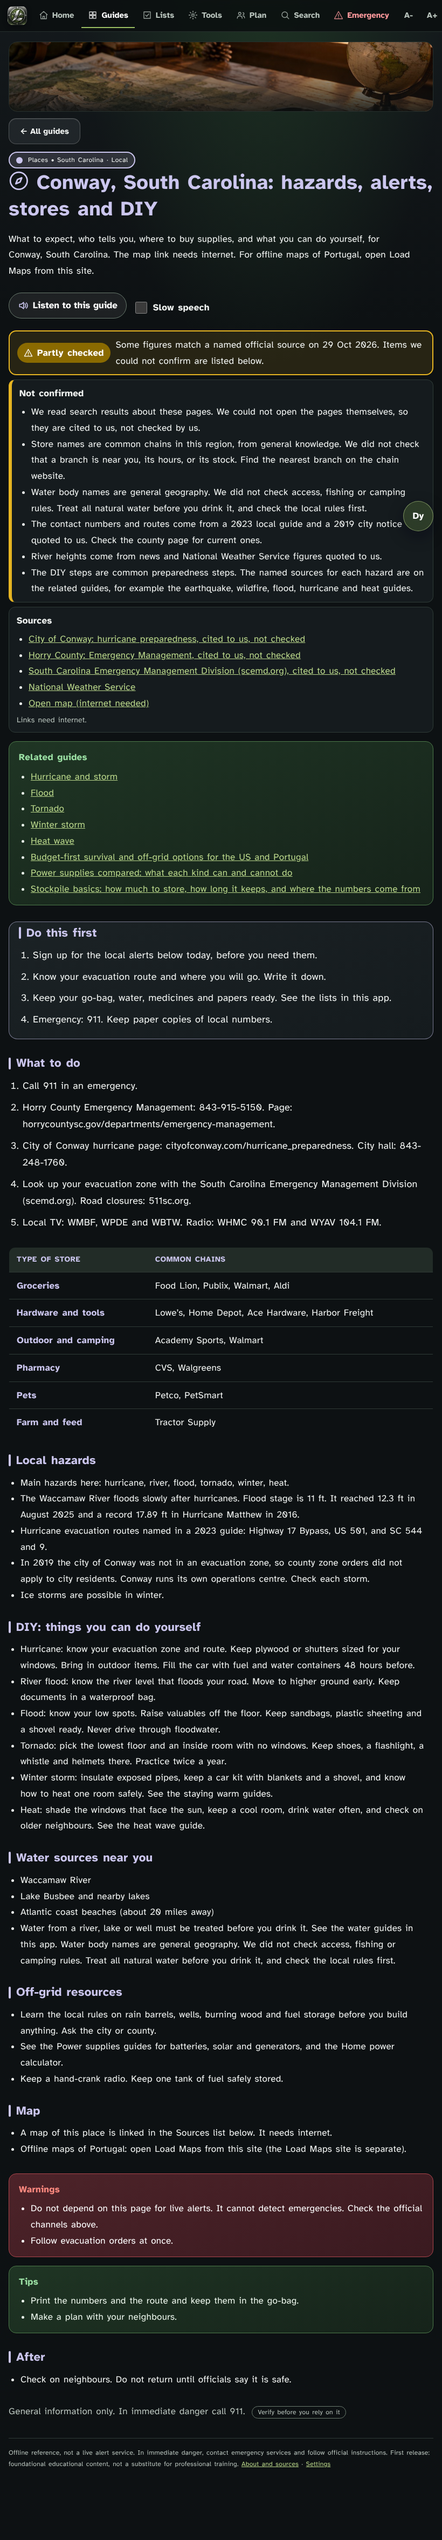
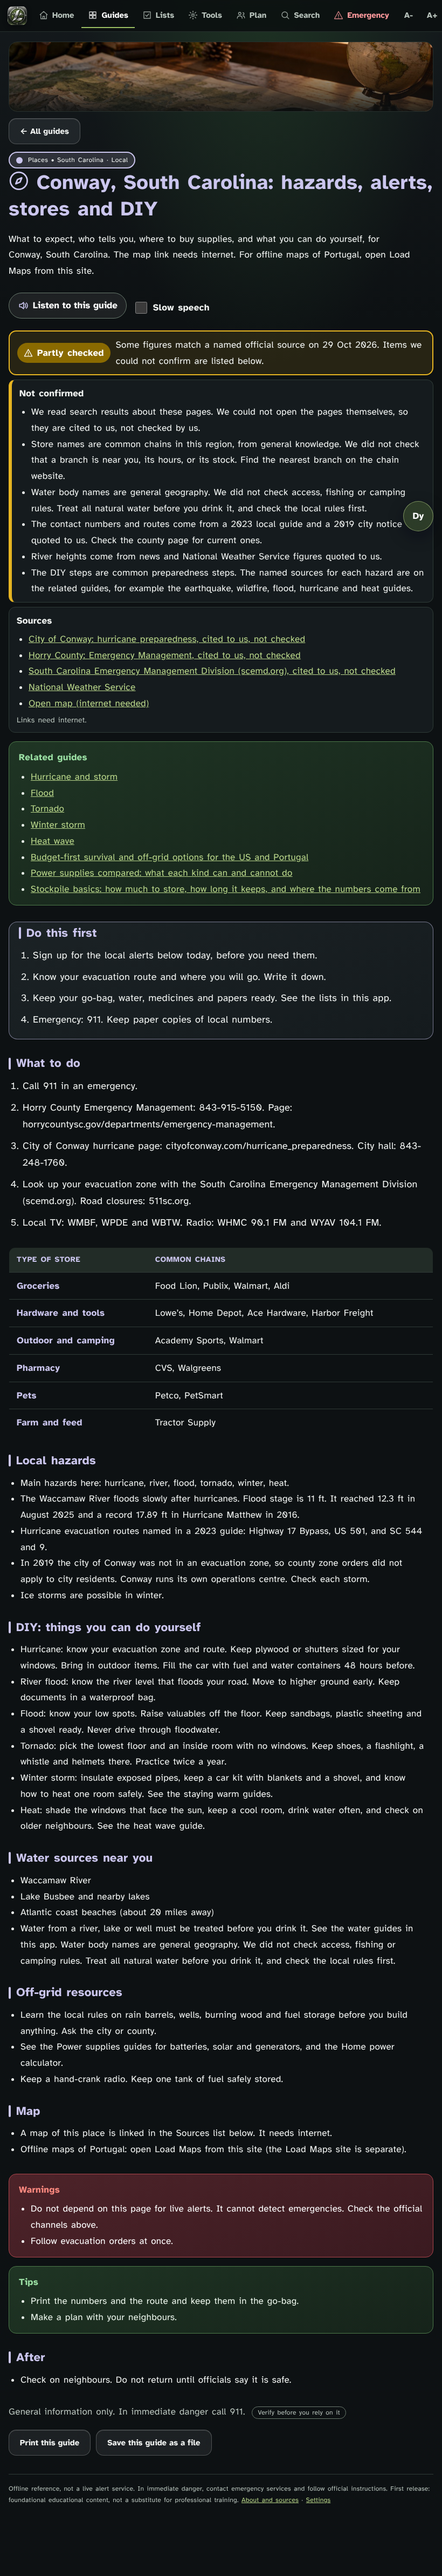
Load Survival: download and print, zip packs made in the app (p96-v114)
Claude-Session: https://claude.ai/code/session_01KR3oNiKpQ7shL9GY1Ytytu

diff --git a/loadsurvival/export.js b/loadsurvival/export.js
@@ -1,0 +1,125 @@
+/* Download and print: turns guides into plain files that work with no app and no internet.
+   Makes single guide files, one-page print files, and zip packs. The zip is written here, with no outside library. */
+(function () {
+  var enc = typeof TextEncoder !== 'undefined' ? new TextEncoder() : null;
+  function esc(s) { return String(s == null ? '' : s).replace(/[&<>"']/g, function (c) { return { '&': '&amp;', '<': '&lt;', '>': '&gt;', '"': '&quot;', "'": '&#39;' }[c]; }); }
+  function slug(s) { return String(s || 'guide').toLowerCase().replace(/[^a-z0-9]+/g, '-').replace(/^-+|-+$/g, '').slice(0, 60) || 'guide'; }
+  function bytes(s) { if (enc) return enc.encode(s); var out = [], i, c; s = unescape(encodeURIComponent(s)); for (i = 0; i < s.length; i++) { c = s.charCodeAt(i); out.push(c); } return new Uint8Array(out); }
+
+  /* ---------- one guide as a simple model ---------- */
+  function statusLine(l) {
+    var st = l.status === 'checked' ? 'Checked' : l.status === 'partly' ? 'Partly checked' : 'General guidance, not checked against a named official source';
+    return st + (l.checkedOn ? ' (' + l.checkedOn + ')' : '');
+  }
+  function model(l) {
+    var b = [];
+    function add(h, kind, items) { if (items && items.length) b.push({ h: h, kind: kind, items: items }); }
+    if (l.first) {
+      add('Do this first', 'ol', l.first); add('What to do', 'ol', l.do);
+      (l.sections || []).forEach(function (s) { add(s.h, 'ul', s.items); });
+      add('Warnings', 'ul', l.warn); add('Tips', 'ul', l.tip); add('After', 'ul', l.after);
+    } else {
+      add('Steps', 'ol', (l.steps || []).map(function (x) { return Array.isArray(x) ? x[0] + ': ' + x[1] : x; }));
+      if (l.warning) add('Warning', 'ul', [l.warning]);
+    }
+    var unc = (l.unconfirmed || []).slice();
+    var src = (l.sources || []).map(function (x) { return x[0] + ' - ' + x[1]; });
+    return { title: l.title, area: l.area || '', intro: l.intro || '', status: statusLine(l), table: l.table || null, blocks: b, unconfirmed: unc, sources: src };
+  }
+  function tableHtml(t) {
+    if (!t || !t.head) return '';
+    return '<table><thead><tr>' + t.head.map(function (h) { return '<th>' + esc(h) + '</th>'; }).join('') + '</tr></thead><tbody>' +
+      (t.rows || []).map(function (r) { return '<tr>' + r.map(function (c) { return '<td>' + esc(c) + '</td>'; }).join('') + '</tr>'; }).join('') + '</tbody></table>';
+  }
+  function bodyHtml(l) {
+    var m = model(l), h = '<article><h1>' + esc(m.title) + '</h1><p class="meta">' + esc(m.area) + '</p><p>' + esc(m.intro) + '</p><p class="stat">' + esc(m.status) + '</p>';
+    m.blocks.forEach(function (b) {
+      var tag = b.kind === 'ol' ? 'ol' : 'ul';
+      h += '<h2>' + esc(b.h) + '</h2><' + tag + '>' + b.items.map(function (x) { return '<li>' + esc(x) + '</li>'; }).join('') + '</' + tag + '>';
+      if (b.h === 'What to do') h += tableHtml(m.table);
+    });
+    if (m.table && !m.blocks.some(function (b) { return b.h === 'What to do'; })) h += tableHtml(m.table);
+    if (m.unconfirmed.length) h += '<h2>Not confirmed</h2><ul>' + m.unconfirmed.map(function (x) { return '<li>' + esc(x) + '</li>'; }).join('') + '</ul>';
+    if (m.sources.length) h += '<h2>Sources (need internet)</h2><ul>' + m.sources.map(function (x) { return '<li>' + esc(x) + '</li>'; }).join('') + '</ul>';
+    return h + '<p class="foot">General information only. In immediate danger call 911 (US) or 112 (Portugal). Local official instructions override this page.</p></article>';
+  }
+  var CSS = 'body{font-family:Arial,Helvetica,sans-serif;font-size:20px;line-height:1.6;max-width:760px;margin:0 auto;padding:16px;color:#111;background:#fff}h1{font-size:28px;line-height:1.25}h2{font-size:22px;margin-top:1.4em;border-bottom:2px solid #444;padding-bottom:4px}li{margin:.5em 0}.meta,.foot{color:#444;font-size:16px}.stat{background:#eee;padding:8px 12px;border-radius:8px;font-size:17px}table{border-collapse:collapse;width:100%;font-size:17px}th,td{border:1px solid #666;padding:6px 8px;text-align:left}article{page-break-after:always}a{color:#000}@media print{body{font-size:12pt;max-width:none;padding:0}.noprint{display:none}}';
+  function page(title, inner) { return '<!doctype html><html lang="en"><head><meta charset="utf-8"><meta name="viewport" content="width=device-width,initial-scale=1"><title>' + esc(title) + '</title><style>' + CSS + '</style></head><body>' + inner + '</body></html>'; }
+  function guideFile(l) { return page(l.title, bodyHtml(l)); }
+
+  /* ---------- zip, store only ---------- */
+  var T = null;
+  function crc(u8) { if (!T) { T = []; for (var n = 0; n < 256; n++) { var c = n; for (var k = 0; k < 8; k++) c = c & 1 ? 0xEDB88320 ^ (c >>> 1) : c >>> 1; T[n] = c >>> 0; } } var r = 0xFFFFFFFF; for (var i = 0; i < u8.length; i++) r = T[(r ^ u8[i]) & 255] ^ (r >>> 8); return (r ^ 0xFFFFFFFF) >>> 0; }
+  function zip(files) {
+    var parts = [], cen = [], off = 0, d = new Date(), time = (d.getHours() << 11) | (d.getMinutes() << 5) | (d.getSeconds() >> 1), date = ((d.getFullYear() - 1980) << 9) | ((d.getMonth() + 1) << 5) | d.getDate();
+    function u16(v) { return [v & 255, (v >> 8) & 255]; } function u32(v) { return [v & 255, (v >> 8) & 255, (v >> 16) & 255, (v >>> 24) & 255]; }
+    files.forEach(function (f) {
+      var nm = bytes(f.name), data = bytes(f.data), c = crc(data);
+      var lh = [].concat(u32(0x04034b50), u16(20), u16(0x0800), u16(0), u16(time), u16(date), u32(c), u32(data.length), u32(data.length), u16(nm.length), u16(0));
+      parts.push(new Uint8Array(lh), nm, data);
+      cen.push({ nm: nm, c: c, len: data.length, off: off });
+      off += lh.length + nm.length + data.length;
+    });
+    var cs = off;
+    cen.forEach(function (e) {
+      var h = [].concat(u32(0x02014b50), u16(20), u16(20), u16(0x0800), u16(0), u16(time), u16(date), u32(e.c), u32(e.len), u32(e.len), u16(e.nm.length), u16(0), u16(0), u16(0), u16(0), u32(0), u32(e.off));
+      parts.push(new Uint8Array(h), e.nm); off += h.length + e.nm.length;
+    });
+    var end = [].concat(u32(0x06054b50), u16(0), u16(0), u16(cen.length), u16(cen.length), u32(off - cs), u32(cs), u16(0));
+    parts.push(new Uint8Array(end));
+    return new Blob(parts, { type: 'application/zip' });
+  }
+  function save(name, blob) {
+    try {
+      var url = URL.createObjectURL(blob), a = document.createElement('a');
+      a.href = url; a.download = name; a.style.display = 'none'; document.body.appendChild(a); a.click();
+      setTimeout(function () { try { document.body.removeChild(a); URL.revokeObjectURL(url); } catch (e) {} }, 4000);
+      return true;
+    } catch (e) { return false; }
+  }
+
+  /* ---------- packs ---------- */
+  function packs(ctx) {
+    var L = ctx.lessons, by = {}; L.forEach(function (l) { by[l.id] = l; });
+    function ids(f) { return L.filter(f).map(function (l) { return l.id; }); }
+    function uniq(a) { var s = {}; return a.filter(function (x) { if (s[x] || !by[x]) return false; s[x] = 1; return true; }); }
+    var P = window.LOAD_PLACES || { portugal: [], us: [], names: {} }, places = [];
+    P.portugal.forEach(function (id) { places.push(id); });
+    P.us.forEach(function (s) { s.ids.forEach(function (id) { places.push(id); }); });
+    var out = { people: [], places: [], topics: [], all: [] };
+    function pk(group, id, label, list) { list = uniq(list); if (list.length) out[group].push({ id: id, label: label, ids: list }); }
+    pk('people', 'p-older', 'The older woman', ['hh-older-woman', 'hh-menopause', 'hh-dust-allergy'].concat(ids(function (l) { return /^sen-/.test(l.id); })));
+    pk('people', 'p-seniors', 'Seniors', ids(function (l) { return ctx.cat(l) === 'seniors'; }));
+    pk('people', 'p-preg', 'Pregnancy', ids(function (l) { return ctx.cat(l) === 'pregnancy'; }));
+    pk('people', 'p-dogs', 'Dogs and pets', ids(function (l) { return /(^|-)(dog|dogs|pet|pets)(-|$)/.test(l.id) || /\b(dog|dogs|pets?)\b/i.test(l.title); }));
+    pk('people', 'p-house', 'Our household (6 people, 5 dogs)', ids(function (l) { return /^hh-/.test(l.id); }).concat(['stockpile-basics', 'dog-stockpile', 'g-pets', 'g-power-outage']));
+    places.forEach(function (id) { var g = by[id]; if (g) pk('places', id, P.names[id] || g.title, [id].concat(ctx.related[id] || [])); });
+    [['water', 'Water'], ['power', 'Power'], ['fire', 'Fire'], ['shelter', 'Shelter'], ['food', 'Food'], ['home', 'Home skills'], ['security', 'Security'], ['medical', 'Medical'], ['disasters', 'Disasters'], ['scenarios', 'Scenarios'], ['essentials', 'Essentials'], ['longterm', 'Long-term']].forEach(function (c) {
+      pk('topics', 't-' + c[0], c[1], ids(function (l) { return ctx.cat(l) === c[0]; }));
+    });
+    pk('all', 'all', 'Every guide', ids(function () { return true; }));
+    return out;
+  }
+  function readme(label, list, by) {
+    return 'LOAD Survival pack: ' + label + '\r\n' + list.length + ' guides. Made on ' + new Date().toISOString().slice(0, 10) + '.\r\n\r\n' +
+      'How to use:\r\n1. Open index.html. Tap a guide to read it. No internet and no app needed.\r\n2. To print: open print-all.html and use Print on your device.\r\n3. Keep a copy on paper and on a second device.\r\n\r\n' +
+      'These are general guides, many only partly checked. Each says what is not confirmed. Local official instructions override them. Emergency numbers: 911 (US), 112 (Portugal).\r\n';
+  }
+  function build(pack, by) {
+    var files = [], idx = '<h1>' + esc(pack.label) + '</h1><p class="meta">' + pack.ids.length + ' guides. Open any one. Works with no internet.</p><p><a href="print-all.html">One file for printing: print-all.html</a></p><ul>', all = '';
+    pack.ids.forEach(function (id, i) {
+      var l = by[id], nm = ('00' + (i + 1)).slice(-3) + '-' + slug(l.title) + '.html';
+      files.push({ name: nm, data: guideFile(l) });
+      idx += '<li><a href="' + nm + '">' + esc(l.title) + '</a></li>';
+      all += bodyHtml(l);
+    });
+    files.unshift({ name: 'index.html', data: page(pack.label, idx + '</ul>') });
+    files.push({ name: 'print-all.html', data: page(pack.label + ' (print)', all) });
+    files.push({ name: 'README.txt', data: readme(pack.label, pack.ids, by) });
+    return files;
+  }
+  function zipPack(pack, by) { return zip(build(pack, by)); }
+  function onePage(pack, by) { return new Blob([page(pack.label + ' (print)', pack.ids.map(function (id) { return bodyHtml(by[id]); }).join(''))], { type: 'text/html' }); }
+
+  window.LOAD_EXPORT = { guideFile: guideFile, packs: packs, build: build, zip: zip, zipPack: zipPack, onePage: onePage, save: save, slug: slug, crc: crc };
+})();

diff --git a/loadsurvival/service-worker.js b/loadsurvival/service-worker.js
@@ -1,1 +1,1 @@
-const CACHE='loadsurvival-p95-v113';const PICS='loadsurvival-pics-2';const CORE=['./assets/images/feat-water.jpg','./assets/images/feat-power.jpg','./assets/images/feat-shelter.jpg','./assets/images/feat-fire.jpg','./assets/images/home-power.jpg','./assets/images/home-regional.jpg','./assets/images/home-checklist.jpg','./', './index.html', './style.css', './app.js', './data.js', './part3-data.js','./part4-data.js','./part5-data.js','./part6-data.js','./foundation-data.js','./step-images.js','./core-data.js','./home-skills-data.js','./water-extra-data.js','./scenarios-data.js','./longterm-data.js','./howto-data.js','./longterm2-data.js','./limited-data.js','./extras-data.js','./medical-data.js','./limited2-data.js','./wildfood-data.js','./wildfood2-data.js','./wildfood3-data.js','./wildfood4-data.js','./wildfood5-data.js','./wildplants-data.js','./wildsafety-data.js','./stockpile-data.js','./stockpile2-data.js','./power-data.js','./stockpile3-data.js','./seafood-data.js','./extra-needs-data.js','./power-supplies-data.js','./places-data.js','./life-data.js','./household-data.js','./call112-data.js','./status-data.js','./speak.js','./features.js', './manifest.webmanifest',  './assets/fonts/atkinson-400.woff2', './assets/fonts/atkinson-700.woff2', './assets/fonts/opendyslexic-400.woff2', './assets/fonts/opendyslexic-700.woff2', './assets/water/boil.svg', './assets/water/disinfect.svg', './assets/water/filter.svg', './assets/water/rain.svg', './assets/water/sanitize.svg', './assets/water/sediment.svg', './assets/water/source.svg', './assets/water/storage.svg', './assets/water/well.svg', './assets/part3/fire-ferro.svg', './assets/part3/fire-ignition.svg', './assets/part3/fire-indoors.svg', './assets/part3/power-battery.svg', './assets/part3/power-generator.svg', './assets/part3/power-priorities.svg', './assets/part3/power-solar.svg', './assets/part3/power-us-pt.svg', './assets/part3/shelter-cold.svg', './assets/part3/shelter-heat.svg', './assets/part3/shelter-home.svg', './assets/part3/shelter-site.svg', './assets/part3/shelter-tarp.svg','./assets/part4/security-after.svg','./assets/part4/security-children.svg','./assets/part4/security-doors.svg','./assets/part4/security-evac.svg','./assets/part4/security-intrusion.svg','./assets/part4/security-neighbors.svg','./assets/part4/security-rural.svg','./assets/part4/security-scam.svg','./assets/part4/security-supplies.svg','./assets/part4/security-windows.svg','./assets/part5/global-disinformation.svg','./assets/part5/global-evacuate.svg','./assets/part5/pt-earthquake-tsunami.svg','./assets/part5/pt-flood.svg','./assets/part5/pt-heat.svg','./assets/part5/pt-rural-fire.svg','./assets/part5/pt-rural-water.svg','./assets/part5/us-blizzard.svg','./assets/part5/us-earthquake.svg','./assets/part5/us-hurricane.svg','./assets/part5/us-tornado.svg','./assets/part5/us-wildfire.svg','./assets/part6/children-elders-and-pets.svg','./assets/part6/documents-and-emergency-cash.svg','./assets/part6/emergency-communications-tree.svg','./assets/part6/emergency-handwashing.svg','./assets/part6/emergency-medical-priorities.svg','./assets/part6/food-after-a-blackout.svg','./assets/part6/medication-and-medical-power.svg','./assets/part6/no-flame-emergency-meals.svg','./assets/part6/offline-maps-and-wayfinding.svg','./assets/part6/safe-cleanup-after-a-disaster.svg','./assets/part6/sanitation-when-toilets-fail.svg','./assets/part6/seven-day-household-routines.svg','./assets/images/welcome.jpg','./assets/images/home-emergency.jpg','./assets/images/home-skills.jpg','./icons/apple-touch-icon.png','./icons/favicon.png','./icons/favicon-32.png','./icons/favicon.ico','./icons/icon-96.png','./icons/icon-192.png','./icons/icon-512.png','./icons/icon-maskable-192.png','./icons/icon-maskable-512.png'];self.addEventListener('install',event=>{event.waitUntil(caches.open(CACHE).then(cache=>cache.addAll(CORE)).then(()=>self.skipWaiting()))});self.addEventListener('activate',event=>{event.waitUntil(caches.keys().then(keys=>Promise.all(keys.filter(k=>(k.indexOf('loadsurvival-')===0||k.indexOf('load-survival-')===0)&&k!==CACHE&&k!==PICS).map(k=>caches.delete(k)))).then(()=>self.clients.claim()))});self.addEventListener('fetch',event=>{if(event.request.method!=='GET')return;const url=new URL(event.request.url);if(url.origin!==self.location.origin)return;if(url.pathname.indexOf('/loadsurvival/assets/steps/')>=0){event.respondWith(caches.open(PICS).then(c=>c.match(event.request).then(found=>found||fetch(event.request).then(response=>{if(response.ok)c.put(event.request,response.clone());return response}).catch(()=>new Response('',{status:404,statusText:'Not cached'})))));return}event.respondWith(caches.match(event.request).then(found=>found||fetch(event.request).then(response=>{if(response.ok){const copy=response.clone();caches.open(CACHE).then(c=>c.put(event.request,copy))}return response}).catch(()=>caches.match('./index.html'))))});
+const CACHE='loadsurvival-p96-v114';const PICS='loadsurvival-pics-2';const CORE=['./assets/images/feat-water.jpg','./assets/images/feat-power.jpg','./assets/images/feat-shelter.jpg','./assets/images/feat-fire.jpg','./assets/images/home-power.jpg','./assets/images/home-regional.jpg','./assets/images/home-checklist.jpg','./', './index.html', './style.css', './app.js', './data.js', './part3-data.js','./part4-data.js','./part5-data.js','./part6-data.js','./foundation-data.js','./step-images.js','./core-data.js','./home-skills-data.js','./water-extra-data.js','./scenarios-data.js','./longterm-data.js','./howto-data.js','./longterm2-data.js','./limited-data.js','./extras-data.js','./medical-data.js','./limited2-data.js','./wildfood-data.js','./wildfood2-data.js','./wildfood3-data.js','./wildfood4-data.js','./wildfood5-data.js','./wildplants-data.js','./wildsafety-data.js','./stockpile-data.js','./stockpile2-data.js','./power-data.js','./stockpile3-data.js','./seafood-data.js','./extra-needs-data.js','./power-supplies-data.js','./places-data.js','./life-data.js','./household-data.js','./export.js','./call112-data.js','./status-data.js','./speak.js','./features.js', './manifest.webmanifest',  './assets/fonts/atkinson-400.woff2', './assets/fonts/atkinson-700.woff2', './assets/fonts/opendyslexic-400.woff2', './assets/fonts/opendyslexic-700.woff2', './assets/water/boil.svg', './assets/water/disinfect.svg', './assets/water/filter.svg', './assets/water/rain.svg', './assets/water/sanitize.svg', './assets/water/sediment.svg', './assets/water/source.svg', './assets/water/storage.svg', './assets/water/well.svg', './assets/part3/fire-ferro.svg', './assets/part3/fire-ignition.svg', './assets/part3/fire-indoors.svg', './assets/part3/power-battery.svg', './assets/part3/power-generator.svg', './assets/part3/power-priorities.svg', './assets/part3/power-solar.svg', './assets/part3/power-us-pt.svg', './assets/part3/shelter-cold.svg', './assets/part3/shelter-heat.svg', './assets/part3/shelter-home.svg', './assets/part3/shelter-site.svg', './assets/part3/shelter-tarp.svg','./assets/part4/security-after.svg','./assets/part4/security-children.svg','./assets/part4/security-doors.svg','./assets/part4/security-evac.svg','./assets/part4/security-intrusion.svg','./assets/part4/security-neighbors.svg','./assets/part4/security-rural.svg','./assets/part4/security-scam.svg','./assets/part4/security-supplies.svg','./assets/part4/security-windows.svg','./assets/part5/global-disinformation.svg','./assets/part5/global-evacuate.svg','./assets/part5/pt-earthquake-tsunami.svg','./assets/part5/pt-flood.svg','./assets/part5/pt-heat.svg','./assets/part5/pt-rural-fire.svg','./assets/part5/pt-rural-water.svg','./assets/part5/us-blizzard.svg','./assets/part5/us-earthquake.svg','./assets/part5/us-hurricane.svg','./assets/part5/us-tornado.svg','./assets/part5/us-wildfire.svg','./assets/part6/children-elders-and-pets.svg','./assets/part6/documents-and-emergency-cash.svg','./assets/part6/emergency-communications-tree.svg','./assets/part6/emergency-handwashing.svg','./assets/part6/emergency-medical-priorities.svg','./assets/part6/food-after-a-blackout.svg','./assets/part6/medication-and-medical-power.svg','./assets/part6/no-flame-emergency-meals.svg','./assets/part6/offline-maps-and-wayfinding.svg','./assets/part6/safe-cleanup-after-a-disaster.svg','./assets/part6/sanitation-when-toilets-fail.svg','./assets/part6/seven-day-household-routines.svg','./assets/images/welcome.jpg','./assets/images/home-emergency.jpg','./assets/images/home-skills.jpg','./icons/apple-touch-icon.png','./icons/favicon.png','./icons/favicon-32.png','./icons/favicon.ico','./icons/icon-96.png','./icons/icon-192.png','./icons/icon-512.png','./icons/icon-maskable-192.png','./icons/icon-maskable-512.png'];self.addEventListener('install',event=>{event.waitUntil(caches.open(CACHE).then(cache=>cache.addAll(CORE)).then(()=>self.skipWaiting()))});self.addEventListener('activate',event=>{event.waitUntil(caches.keys().then(keys=>Promise.all(keys.filter(k=>(k.indexOf('loadsurvival-')===0||k.indexOf('load-survival-')===0)&&k!==CACHE&&k!==PICS).map(k=>caches.delete(k)))).then(()=>self.clients.claim()))});self.addEventListener('fetch',event=>{if(event.request.method!=='GET')return;const url=new URL(event.request.url);if(url.origin!==self.location.origin)return;if(url.pathname.indexOf('/loadsurvival/assets/steps/')>=0){event.respondWith(caches.open(PICS).then(c=>c.match(event.request).then(found=>found||fetch(event.request).then(response=>{if(response.ok)c.put(event.request,response.clone());return response}).catch(()=>new Response('',{status:404,statusText:'Not cached'})))));return}event.respondWith(caches.match(event.request).then(found=>found||fetch(event.request).then(response=>{if(response.ok){const copy=response.clone();caches.open(CACHE).then(c=>c.put(event.request,copy))}return response}).catch(()=>caches.match('./index.html'))))});

diff --git a/loadsurvival/features.js b/loadsurvival/features.js
@@ -282,13 +282,13 @@ window.LSX = function (A) {
     h += '<div class="tipbox"><strong>Tips</strong>' + li(l.tip) + '</div>';
     h += '<section class="gblock"><h2>After</h2>' + li(l.after) + '</section>';
     h += '<p class="muted">General information only. In immediate danger call ' + esc(region().emergency) + '. ' + verify() + '</p>';
-    return h + '</div>';
+    return h + exBar(l) + '</div>';
   }
   function lessonView() {
     var l = D.lessons.filter(function (x) { return x.id === state.opened; })[0];
     if (l && l.first) return guideView(l);
     var b = A.lessonBase(); if (!l) return b;
-    var i = b.indexOf('<div class="dangerbox">'); return i < 0 ? b : b.slice(0, i) + statusHtml(l) + seeAlso(l.id) + b.slice(i);
+    var i = b.indexOf('<div class="dangerbox">'); return (i < 0 ? b : b.slice(0, i) + statusHtml(l) + seeAlso(l.id) + b.slice(i)) + exBar(l);
   }
 
   /* ---------- lists ---------- */
@@ -322,7 +322,8 @@ window.LSX = function (A) {
     ['dogs', 'paw', 'Dog supply planner', 'Food, water, medicine and gear for 1 to 6 dogs'],
     ['power', 'bolt', 'Home power calculator', 'Backup power for your home size, rooms, people and appliances'],
     ['tracker', 'list', 'My stockpile tracker', 'Your rates, prices, what you own, shopping list, CSV and backup'],
-    ['dogp', 'paw', 'Dog profiles', 'Each dog on its own: weight, food, bags, water and medicine notes']
+    ['dogp', 'paw', 'Dog profiles', 'Each dog on its own: weight, food, bags, water and medicine notes'],
+    ['export', 'print', 'Download and print', 'Guides as files, packs for each person, place and topic']
   ];
   function toolsView() {
     return '<h1>Tools</h1><p class="muted">Simple calculators and signals. Everything works offline.</p><div class="grid hmtools">' + TOOLS.map(function (t) {
@@ -334,9 +335,31 @@ window.LSX = function (A) {
     var T = TOOLS.filter(function (x) { return x[0] === t; })[0];
     return '<div class="breadcrumbs">' + btn('← All tools', 'tools') + '</div><h1>' + ico(T[1]) + ' ' + esc(T[2]) + '</h1>' + inner;
   }
+
+  /* ---------- download and print ---------- */
+  var EXP = null;
+  function exPacks() { if (!EXP && window.LOAD_EXPORT) { var by = {}; D.lessons.forEach(function (l) { by[l.id] = l; }); EXP = { by: by, packs: window.LOAD_EXPORT.packs({ lessons: D.lessons, cat: catOf, related: RELATED }) }; } return EXP; }
+  function exFind(id) { var E = exPacks(); if (!E) return null; var g = ['people', 'places', 'topics', 'all']; for (var i = 0; i < g.length; i++) { var f = E.packs[g[i]].filter(function (p) { return p.id === id; })[0]; if (f) return f; } return null; }
+  function exBar(l) {
+    if (!window.LOAD_EXPORT) return '';
+    return '<div class="actions noprint exbar"><button type="button" class="secondary" data-action="stk-print">Print this guide</button><button type="button" class="secondary" data-action="gd-dl" data-id="' + esc(l.id) + '">Save this guide as a file</button></div>';
+  }
+  function exRows(list) {
+    return list.map(function (p) {
+      return '<div class="exrow"><div class="exname"><b>' + esc(p.label) + '</b><small>' + p.ids.length + ' guides</small></div><div class="actions"><button type="button" class="button" data-action="ex-zip" data-pack="' + esc(p.id) + '">Download zip</button><button type="button" class="secondary" data-action="ex-one" data-pack="' + esc(p.id) + '">One file to print</button></div></div>';
+    }).join('');
+  }
+  function exportTool() {
+    var E = exPacks(); if (!E) return toolFrame('export', '<div class="notice">Download is not available in this browser.</div>');
+    var P = E.packs;
+    return toolFrame('export', '<div class="panel"><p>Save guides as plain files. They open with no internet and no app. A zip holds one page per guide, an index, and one file for printing. Keep a copy on paper and on a second device.</p>' +
+      '<p class="muted">On iPad: tap Download. Choose Download or Save to Files. Then open the zip in Files and tap it to unpack.</p><p id="ex-msg" class="muted" role="status" aria-live="polite"></p></div>' +
+      '<h2>For a person</h2>' + exRows(P.people) + '<h2>For a place</h2>' + exRows(P.places) + '<h2>By topic</h2>' + exRows(P.topics) + '<h2>Everything</h2>' + exRows(P.all));
+  }
   function toolView() {
     clearTimers();
     var t = state.opened;
+    if (t === 'export') return exportTool();
     if (t === 'water') return toolFrame(t, '<div class="panel"><label for="w-people">People</label>' + num('w-people', 4, 1, 1, 100) + '<label for="w-days">Days</label>' + num('w-days', 3, 1, 1, 365) + '<div id="w-out" class="kpis"></div><p class="muted">Water: 1 gal (3.8 L) per person per day. 3 days minimum, 2 weeks ideal. Food: about 2,000 kcal per person per day. Raise water for heat, illness, pregnancy and pets.</p></div>');
     if (t === 'bleach') return toolFrame(t, '<div class="panel"><label for="b-vol">Amount of clear water</label>' + num('b-vol', 1, 'any', 0.1) + '<label for="b-unit">Unit</label><select id="b-unit"><option value="gal">US gallons</option><option value="l">Liters</option></select><div id="b-out" class="kpis"></div></div><div class="dangerbox"><strong>Read first</strong>' + li(['Three steps: strain through cloth, filter, then disinfect.', 'Use only plain, unscented household bleach that is 5 to 6%. If yours is a different strength, follow its label or use water purification tablets.', 'Stir. Wait 30 minutes. The water should have a slight chlorine smell. If not, repeat once and wait 15 more minutes.', 'Cloudy or cold water: settle or filter it first, then use double the dose (16 drops per gallon). Source: CDC. A dose for 1% bleach is not included because we found no official source.', 'Bleach does not make fuel, chemical or flood-contaminated water safe.', 'Or boil water for 1 minute (3 minutes above 6,500 ft / 2,000 m).']) + '</div>');
     if (t === 'fridge') return toolFrame(t, '<div class="panel" id="f-panel"></div><div class="notice">Discard perishables above 40 F (4 C) for more than 2 hours. When in doubt, throw it out. Keep doors closed.</div>');
@@ -631,6 +654,9 @@ window.LSX = function (A) {
     'pw-copy': function () { copy(pwText()); setOut('pw-msg', 'Copied. Paste it into Notes or Messages.'); },
     'dg-copy': function () { copy(dgText()); setOut('dg-msg', 'Copied. Paste it into Notes or Messages.'); },
     'stk-copy': function () { copy(stkText()); setOut('stk-msg', 'Copied. Paste it into Notes or Messages.'); },
+    'gd-dl': function (x) { var l = D.lessons.filter(function (g) { return g.id === x.dataset.id; })[0]; if (l && window.LOAD_EXPORT) window.LOAD_EXPORT.save(window.LOAD_EXPORT.slug(l.title) + '.html', new Blob([window.LOAD_EXPORT.guideFile(l)], { type: 'text/html' })); },
+    'ex-zip': function (x) { var E = exPacks(), p = exFind(x.dataset.pack), ok = false; if (E && p) { try { ok = window.LOAD_EXPORT.save('load-survival-' + window.LOAD_EXPORT.slug(p.label) + '.zip', window.LOAD_EXPORT.zipPack(p, E.by)); } catch (e) {} } setOut('ex-msg', ok ? 'The zip was created (' + p.ids.length + ' guides). Find it in Downloads or Files.' : 'The file could not be created on this device.'); },
+    'ex-one': function (x) { var E = exPacks(), p = exFind(x.dataset.pack), ok = false; if (E && p) { try { ok = window.LOAD_EXPORT.save('load-survival-' + window.LOAD_EXPORT.slug(p.label) + '-print.html', window.LOAD_EXPORT.onePage(p, E.by)); } catch (e) {} } setOut('ex-msg', ok ? 'The print file was created. Open it, then use Print or Share.' : 'The file could not be created on this device.'); },
     'stk-print': function () { try { window.print(); } catch (e) {} },
     'cpr-stop': cprStop,
     'cpr-go': cprGo,

diff --git a/loadsurvival/style.css b/loadsurvival/style.css
@@ -433,3 +433,8 @@ body.font-dyslexic{letter-spacing:.02em;word-spacing:.08em;line-height:1.7}
 .hm .hmplb{padding:8px 16px;min-height:42px;border:1px solid #4d7a4a;border-radius:999px;background:rgba(107,143,62,.14);color:#e6efe0;font-size:15px;font-weight:700}
 .hm .hmplb:hover{background:rgba(107,143,62,.3)}
 .guide li,.guide p,.tipbox li{overflow-wrap:anywhere}
+
+.exrow{display:flex;flex-wrap:wrap;gap:10px;align-items:center;justify-content:space-between;padding:12px 14px;margin:8px 0;border:1px solid var(--line,#2a3338);border-radius:14px}
+.exrow .exname{flex:1 1 200px;min-width:0}.exrow .exname small{display:block;opacity:.75}
+.exrow .actions{margin:0;gap:8px}.exbar{margin-top:18px}
+@media print{.guide h1{display:block!important;color:#000;font-size:22pt}.guide .pgban,.pgban,.exbar,.status .stbadge svg{display:none!important}.guide{color:#000}.guide *{color:#000!important;background:transparent!important}.guide a{text-decoration:none}}

diff --git a/loadsurvival/index.html b/loadsurvival/index.html
@@ -21,4 +21,4 @@
 <script src="life-data.js"></script>
 <script src="household-data.js"></script>
 <script src="call112-data.js"></script><script src="status-data.js"></script><script src="speak.js"></script>
-<script src="features.js"></script><script src="app.js"></script></body></html>
+<script src="export.js"></script><script src="features.js"></script><script src="app.js"></script></body></html>

diff --git a/MASTER_BACKLOG.md b/MASTER_BACKLOG.md
@@ -762,3 +762,5 @@ Owner instruction 2026-10-29: "Don't lose track of my request. I want everything
 
 15. OWNER PRINCIPLE (2026-10-29): the site must not depend on resources that cannot be reached during an event. Every guide carries its own full steps inside the app; government and outside links are extra reading only, never the only place a step lives. Add non-government knowledge too, labelled by kind. TO DO: audit all guides for steps that only say "see the source", and add in-app steps and non-government sources.
 16. SAVED FOR LATER (owner 2026-10-29): Load Maps Survival Maps module (12 places). Full spec in planning/LOAD_MAPS_SURVIVAL_MAPS_HANDOFF.md and Part 2 (off-grid expansion, owner correction: first-class, not optional) in planning/LOAD_MAPS_SURVIVAL_MAPS_HANDOFF_PART2_OFFGRID.md, research in planning/Location-Specific_Survival_and_Emergency-Preparedness_Research.docx. Build only after everything else and after the images are placed. Needs the Load Maps unlock phrase, backup, checks, merge link.
+
+17. BUILT 2026-10-29 in a PR (cache p96-v114), awaiting owner merge and iPad check: DOWNLOAD AND PRINT. Tools > Download and print: zip packs (made in the app, no outside library) for the older woman, seniors, pregnancy, dogs and pets, our household, each of the 12 places, each topic, and every guide; each zip has one page per guide, an index, print-all.html and README. One-file print option per pack. Every guide has Print this guide and Save this guide as a file. Not yet checked: real iPad Safari download and Files unzip.

diff --git a/SESSION_NOTES_2026-10-29.md b/SESSION_NOTES_2026-10-29.md
@@ -45,3 +45,5 @@ Full request list: see the section LOAD SURVIVAL: owner request tracker at the e
 - www.cdc.gov and www.nhs.uk could not be opened from the session network. Only search summaries were read.
 
 - Owner 2026-10-29: site must work when government and outside sites cannot be reached; saved Survival Maps handoff and research docx under planning/ for later.
+
+- #1134 and #1135 merged. Download and print built (export.js, Tools > Download and print), cache p96-v114. Backup backup/2026-10-29-loadsurvival-p95-v113 at 750ec990. Next: place the 40 pictures when uploaded; audit guides for steps that depend on outside links.
